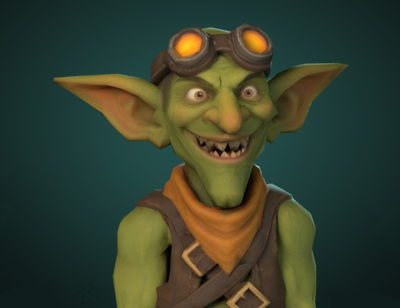
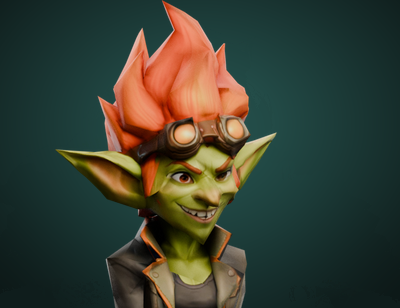
Blast: nytt menyporträtt från V2-modellen (eldhår), det gamla var goblinen före remaken. LICENSES-raden uppdaterad. Bara bild
Claude-Session: https://claude.ai/code/session_01M7eBmsdbX5dujjbvcNASSn

diff --git a/Docs/LICENSES.md b/Docs/LICENSES.md
@@ -144,7 +144,7 @@ Copied byte-identical from Rickard's old project `Speltest/Assets/ABC2/Resources
 | Files | What | Origin | Made by | Rights / proof | Credit |
 |---|---|---|---|---|---|
 | `home_bg.jpg` (was `home_bg_soft.jpg`) | Home background painting | Old game Home | Rickard ("bilden är min egen", 2026-10-25) | Rickard's own | None |
-| `portrait_<hero>.png` (8) | Hero portraits on the Heroes cards and the Home top bar | Old game `profile_<hero>.png` (Fenn, Knut); Bram, Tyra, Moa, Tikta, Blast and Bonk rendered by us in Blender from the models the game uses, in their idle pose (2026-10-28, bam-work/art/portraits-2026-10-28) | Renders of Rickard's own hero models | Rickard's own (he confirmed 2026-10-25 15:07) | None |
+| `portrait_<hero>.png` (8) | Hero portraits on the Heroes cards and the Home top bar | Old game `profile_<hero>.png` (Fenn, Knut); Bram, Tyra, Moa, Tikta, Blast and Bonk rendered by us in Blender from the models the game uses, in their idle pose (2026-10-28, bam-work/art/portraits-2026-10-28); Blast re-rendered 2026-11-16 from his V2 model (ModelsV2/Blast, flame hair) with the same lighting and background | Renders of Rickard's own hero models | Rickard's own (he confirmed 2026-10-25 15:07) | None |
 | `menu_btn_orange.png` | The orange PLAY button face on Home | Old game `AbcUI/menu_btn_orange.png` (PlayButton) | Rickard's own UI art from the old project | Rickard's own | None |
 | `bam_logo.png` | Rickard's logo above the first-start consent box (full review 2026-11-13 nr 126) | `Docs/play/branding/bam-logo.png`, scaled to 512 px with the white corners made transparent (2026-11-13) | Rickard's logo | Rickard's own (see the BAM logo row above) | None |
 | `special_<hero>.png`, `passive_<hero>.png` (14) | Ability icons on the Heroes page | Old game `ui_abilities_<hero>_*.png` | Rickard / the old project | Rickard's own (he confirmed 2026-10-25 15:14) | None |
